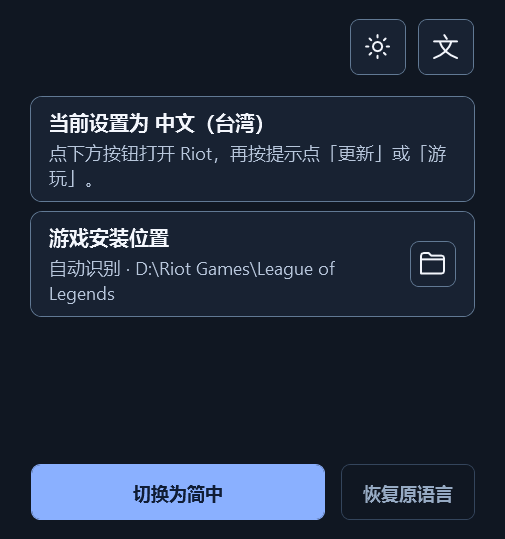
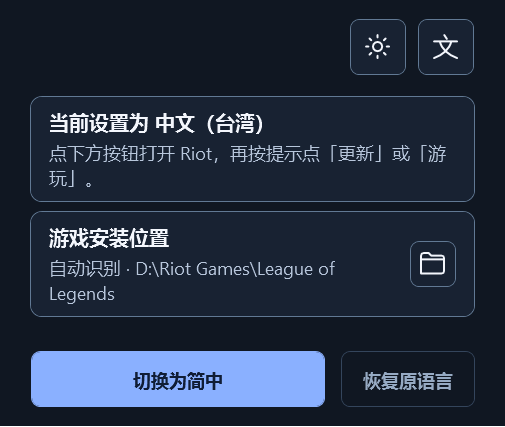
Reduce default window height

diff --git a/Main.xaml b/Main.xaml
@@ -1,7 +1,7 @@
 <Window xmlns="http://schemas.microsoft.com/winfx/2006/xaml/presentation"
         xmlns:x="http://schemas.microsoft.com/winfx/2006/xaml"
         xmlns:sys="clr-namespace:System;assembly=mscorlib"
-        Title="{DynamicResource AppTitle}" Width="420" Height="470" MinWidth="420" MinHeight="470"
+        Title="{DynamicResource AppTitle}" Width="420" Height="380" MinWidth="420" MinHeight="380"
         MaxWidth="820" WindowStartupLocation="CenterScreen"
         Background="{DynamicResource Canvas}" FontFamily="{DynamicResource InterfaceFont}" FontSize="{DynamicResource BodySize}"
         UseLayoutRounding="True" SnapsToDevicePixels="True" TextOptions.TextFormattingMode="Display">

diff --git a/Verify.cs b/Verify.cs
@@ -91,7 +91,7 @@ internal static class Verify
         var app = new Application();
         Window window = Program.LoadWindow();
         Require(window.Width == 420 && window.Width == window.MinWidth
-            && window.Height == 470 && window.Height == window.MinHeight);
+            && window.Height == 380 && window.Height == window.MinHeight);
         new LauncherWindow(window, appData).Initialize(install);
         var handle = new System.Windows.Interop.WindowInteropHelper(window).EnsureHandle();
         IntPtr dpiAwareness = GetWindowDpiAwarenessContext(handle);
@@ -105,7 +105,7 @@ internal static class Verify
         var scroll = (ScrollViewer)window.FindName("PageScroll");
         Require(!autoPathItem.IsEnabled && AutomationProperties.GetName(manualPath) == "手动选择");
         Require(AutomationProperties.GetName(theme) == "切换为深色模式");
-        Draw(window, 404, 431, Path.Combine(root, "settings-light.png"));
+        Draw(window, 404, 341, Path.Combine(root, "settings-light.png"));
         theme.RaiseEvent(new RoutedEventArgs(Button.ClickEvent));
         language.RaiseEvent(new RoutedEventArgs(Button.ClickEvent));
         Require(AutomationProperties.GetName(language) == "Switch interface to Simplified Chinese"
@@ -115,15 +115,15 @@ internal static class Verify
         LauncherPreferences saved = LauncherPreferences.Load(preferenceFile);
         Require(saved.Theme == ThemeMode.Dark && saved.UiLanguage == "en-US");
         ((TextBlock)window.FindName("InstallPath")).Text = @"Auto-detect · D:\Riot Games\League of Legends";
-        Draw(window, 404, 431, Path.Combine(root, "settings-dark.png"));
+        Draw(window, 404, 341, Path.Combine(root, "settings-dark.png"));
         Draw(window, 340, 285, Path.Combine(root, "settings-compact.png"), 144);
-        Draw(window, 404, 431, Path.Combine(root, "home-dark.png"), 144);
+        Draw(window, 404, 341, Path.Combine(root, "home-dark.png"), 144);
         Require(scroll.ScrollableHeight == 0);
         language.RaiseEvent(new RoutedEventArgs(Button.ClickEvent));
         Require(AutomationProperties.GetName(language) == "切换为英文界面"
             && LauncherPreferences.Load(preferenceFile).UiLanguage == "zh-CN");
         ((TextBlock)window.FindName("InstallPath")).Text = @"自动识别 · D:\Riot Games\League of Legends";
-        Draw(window, 404, 431, Path.Combine(root, "settings-dark-125.png"), 120);
+        Draw(window, 404, 341, Path.Combine(root, "settings-dark-125.png"), 120);
         var pathButtons = (Grid)manualPath.Parent;
         double iconCenter = manualPath.TranslatePoint(new Point(0, manualPath.ActualHeight / 2), pathButtons).Y;
         Require(Math.Abs(iconCenter - pathButtons.ActualHeight / 2) <= 1);
@@ -133,7 +133,7 @@ internal static class Verify
         };
         Grid.SetColumn(focusCue, Grid.GetColumn(manualPath));
         pathButtons.Children.Add(focusCue);
-        Draw(window, 404, 431, Path.Combine(root, "settings-compact-150.png"), 144);
+        Draw(window, 404, 341, Path.Combine(root, "settings-compact-150.png"), 144);
         pathButtons.Children.Remove(focusCue);
         ((TextBlock)window.FindName("StateTitle")).Text = "Riot 正在下载或安装语言资源";
         ((TextBlock)window.FindName("StateDetail")).Text = "保持启动器打开。下载完成后，在 Riot 客户端点「游玩」。";
@@ -143,7 +143,7 @@ internal static class Verify
         var percent = (TextBlock)window.FindName("ProgressText");
         percent.Text = "63%";
         start.Content = "停止等待";
-        Draw(window, 404, 431, Path.Combine(root, "progress-compact.png"), 192);
+        Draw(window, 404, 341, Path.Combine(root, "progress-compact.png"), 192);
         Draw(window, 344, 215, Path.Combine(root, "progress-small-screen.png"), 192);
         var view = (FrameworkElement)window.Content;
         Point startPosition = start.TranslatePoint(new Point(), view);

diff --git a/Program.cs b/Program.cs
@@ -15,8 +15,8 @@ using Microsoft.Win32;
 
 [assembly: AssemblyTitle("LOL国际服改中文语音工具")]
 [assembly: AssemblyDescription("通过 Riot 启动器切换英雄联盟国际服的语言资源")]
-[assembly: AssemblyVersion("1.1.8.0")]
-[assembly: AssemblyFileVersion("1.1.8.0")]
+[assembly: AssemblyVersion("1.1.9.0")]
+[assembly: AssemblyFileVersion("1.1.9.0")]
 
 internal static class Program
 {
